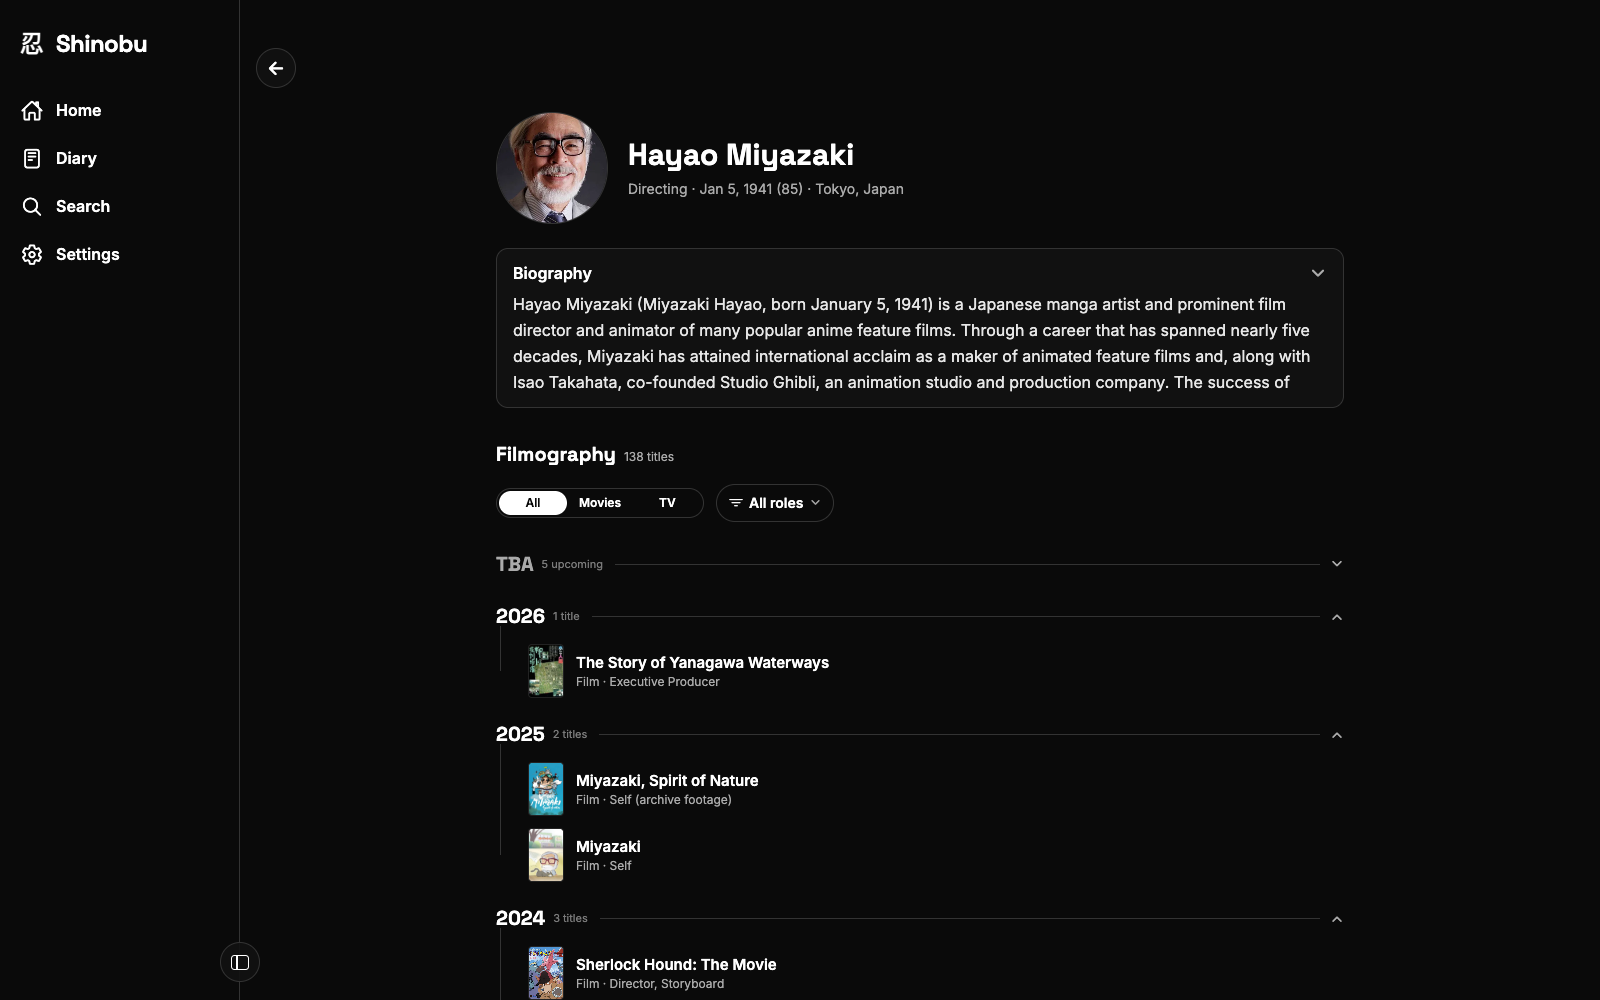
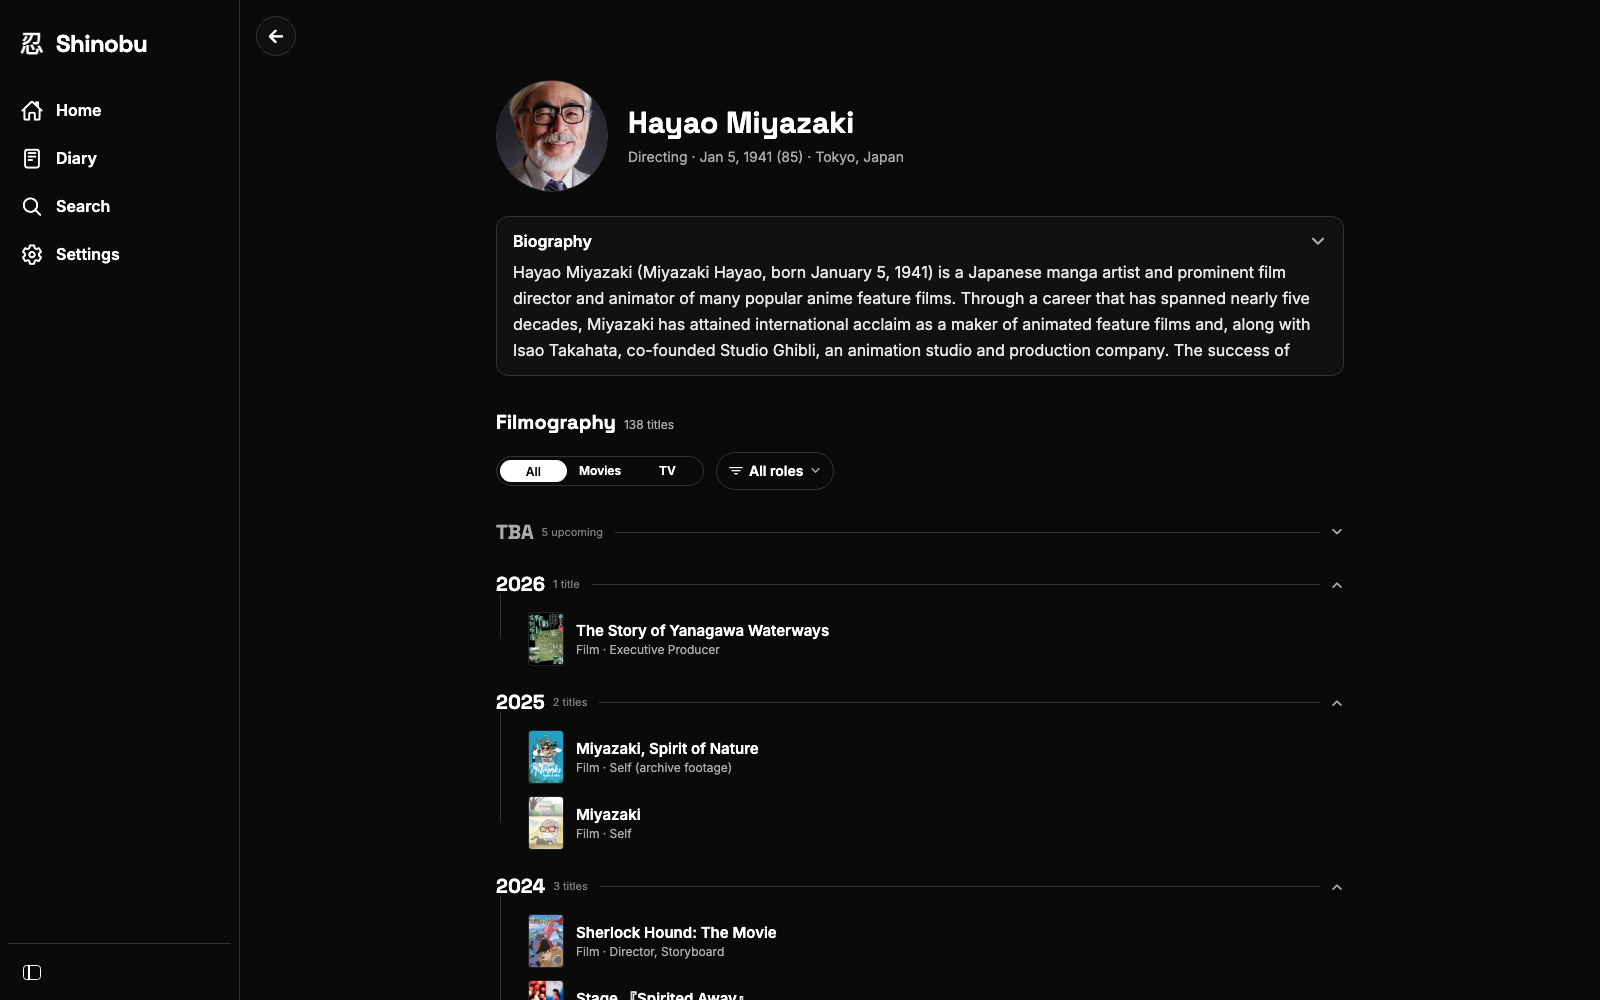
fix(web): move sidebar toggle into footer (#161)
* fix(web): move sidebar toggle into footer

* feat(web): morph sidebar footer icon on toggle

Changed region(s): [[0.3125, 0.062, 0.8125, 1.0], [0.4688, 0.465, 0.5, 0.527], [0.1562, 0.031, 0.1875, 0.062]]

diff --git a/src/components/app-shell/index.web.tsx b/src/components/app-shell/index.web.tsx
@@ -5,7 +5,6 @@ import { useEffect } from 'react';
 import { Text, View } from 'react-native';
 
 import { PresstableOpacity } from '@/components/presstable';
-import { RoundIconButton } from '@/components/round-icon-button';
 import { cn } from '@/lib/cn';
 import { emitSearchFocusRequest } from '@/features/search/focus-signal';
 import { usePushRoute } from '@/lib/navigation';
@@ -15,24 +14,10 @@ import {
   useSidebarCollapsed,
 } from '@/state/prefs/sidebar';
 
-/**
- * Sidebar widths (px). Their classes (`md:w-60` / `md:w-16`) are the values the
- * browser actually paints — these mirror them for the toggle's `left`.
- */
-const SIDEBAR_WIDTH = 240;
 const RAIL_WIDTH = 64;
 /** Fixed icon column so icons never shift between expanded/collapsed — only the
  *  labels reveal and the width slides. `RAIL_WIDTH` minus the `px-2` gutters. */
 const ICON_COL = RAIL_WIDTH - 16;
-/** Diameter of `RoundIconButton` (w-10). */
-const TOGGLE_SIZE = 40;
-
-const EASE = 'cubic-bezier(0.4, 0, 0.2, 1)';
-const leftTransition = {
-  transitionDuration: '220ms',
-  transitionProperty: 'left',
-  transitionTimingFunction: EASE,
-} as const;
 const opacityTransition = {
   transitionDuration: '160ms',
   transitionProperty: 'opacity',
@@ -112,10 +97,10 @@ function RevealLabel({
 }
 
 /**
- * The lucide/shadcn "panel-left" glyph, composed from Views (no SVG/icon-font
- * dependency): a rounded rect with a vertical divider a third of the way in.
+ * The sidebar control uses opposite divider positions to show which edge the
+ * panel will move toward when pressed.
  */
-function PanelLeftIcon({ color }: { color: string }) {
+function PanelIcon({ color, collapsed }: { color: string; collapsed: boolean }) {
   return (
     <View
       style={{
@@ -127,12 +112,14 @@ function PanelLeftIcon({ color }: { color: string }) {
       }}
     >
       <View
+        className="transition-transform duration-200 ease-in-out motion-reduce:transition-none"
         style={{
           backgroundColor: color,
           bottom: 0,
           left: 4,
           position: 'absolute',
           top: 0,
+          transform: [{ translateX: collapsed ? 6 : 0 }],
           width: 1.75,
         }}
       />
@@ -141,20 +128,19 @@ function PanelLeftIcon({ color }: { color: string }) {
 }
 
 /**
- * The collapse toggle floating at the bottom of the sidebar's right edge. Its
- * `left` slides in sync with the sidebar width.
+ * The collapse control sits in the sidebar footer in both states.
  */
 function SidebarToggle({ collapsed }: { collapsed: boolean }) {
-  const edge = collapsed ? RAIL_WIDTH : SIDEBAR_WIDTH;
-
   return (
-    <RoundIconButton
-      className="hidden md:flex absolute z-30"
-      icon={<PanelLeftIcon color={COLOR.foreground} />}
-      label={collapsed ? 'Expand sidebar' : 'Collapse sidebar'}
+    <PresstableOpacity
+      accessibilityLabel={collapsed ? 'Expand sidebar' : 'Collapse sidebar'}
+      accessibilityRole="button"
+      className="h-14 items-center justify-center"
       onPress={toggleSidebarCollapsed}
-      style={{ bottom: 18, left: edge - TOGGLE_SIZE / 2, ...leftTransition }}
-    />
+      style={{ width: ICON_COL }}
+    >
+      <PanelIcon color={COLOR.foreground} collapsed={collapsed} />
+    </PresstableOpacity>
   );
 }
 
@@ -203,10 +189,10 @@ function SidebarItem({
  * bar only after hydration.
  *
  * Collapse behavior is adapted from shadcn's `collapsible="icon"` sidebar: the
- * floating edge toggle (and ⌘/Ctrl+B) switches between the full rail and an
- * icon-only rail, persisted via `state/prefs/sidebar`. The width, labels, and
- * toggle animate together (CSS transitions; web-only file). The toggle and the
- * pref only exist above `md` — the bottom bar has one shape.
+ * footer toggle (and ⌘/Ctrl+B) switches between the full rail and an icon-only
+ * rail, persisted via `state/prefs/sidebar`. The width and labels animate
+ * together (CSS transitions; web-only file). The toggle and the pref only exist
+ * above `md` — the bottom bar has one shape.
  */
 export function AppShell({ children }: { children: ReactNode }) {
   const pathname = usePathname();
@@ -254,10 +240,10 @@ export function AppShell({ children }: { children: ReactNode }) {
     <View className="flex-1 flex-col-reverse md:flex-row">
       <View
         className={cn(
-          'border-t border-border bg-background overflow-hidden px-2',
+          'border-t border-border bg-background overflow-hidden md:px-2',
           // oxlint-disable-next-line shadcn/no-arbitrary-values -- the home indicator's inset has no scale value
-          'pb-[calc(env(safe-area-inset-bottom,0px)+0.5rem)] pt-2',
-          'md:h-full md:w-60 md:border-t-0 md:border-r md:pt-6 md:pb-0',
+          'pb-[calc(env(safe-area-inset-bottom,0px)+0.75rem)] pt-3',
+          'md:h-full md:w-60 md:border-t-0 md:border-r md:pt-6 md:pb-0 md:flex-col',
           // The bar is stretched, not `w-full`: `auto` can't interpolate, so
           // crossing `md` snaps. From `100%` it slid down to 240px, squeezing
           // the page to ~0px wide and latching Legend List's width
@@ -284,7 +270,36 @@ export function AppShell({ children }: { children: ReactNode }) {
             Shinobu
           </RevealLabel>
         </PresstableOpacity>
-        <View className="flex-row justify-around md:flex-col md:gap-1">
+        <View className="flex-row md:hidden">
+          {NAV_ITEMS.map((item) => {
+            const active = isActive(pathname, item.href);
+            return (
+              <PresstableOpacity
+                accessibilityLabel={item.label}
+                accessibilityRole="button"
+                className="flex-1 items-center justify-center"
+                key={item.href}
+                onPress={() => {
+                  if (!active) pushRoute(item.href);
+                }}
+              >
+                <View
+                  className={cn(
+                    'h-12 w-12 items-center justify-center rounded-full',
+                    active && 'bg-accent-tonal',
+                  )}
+                >
+                  <Ionicons
+                    color={active ? COLOR.accentOnTonal : COLOR.foreground}
+                    name={item.icon}
+                    size={23}
+                  />
+                </View>
+              </PresstableOpacity>
+            );
+          })}
+        </View>
+        <View className="hidden md:flex md:flex-col md:gap-1">
           {NAV_ITEMS.map((item) => {
             const active = isActive(pathname, item.href);
             return (
@@ -303,10 +318,11 @@ export function AppShell({ children }: { children: ReactNode }) {
             );
           })}
         </View>
+        <View className="hidden md:flex mt-auto border-t border-border">
+          <SidebarToggle collapsed={collapsed} />
+        </View>
       </View>
       <View className="flex-1">{children}</View>
-      {/* Last child so it paints above the routed content it overlaps. */}
-      <SidebarToggle collapsed={collapsed} />
     </View>
   );
 }

diff --git a/README.md b/README.md
@@ -7,8 +7,13 @@
 <p align="center">One app for all your media trackers. Log a movie, show, anime, or manga once, and Shinobu writes it to every tracker you've connected.</p>
 
 <p align="center">
-  <img src="./docs/images/screenshot-home.png" alt="Shinobu home with the &quot;One log. Every tracker.&quot; hero, floating provider tiles, and the web sidebar" />
+  <img src="./docs/images/screenshot-home.png" alt="Shinobu home with the &quot;One log. Every tracker.&quot; hero and expanded web sidebar with its footer control" />
 </p>
+
+<details>
+  <summary>See the collapsed web sidebar</summary>
+  <img src="./docs/images/screenshot-home-collapsed.png" alt="Shinobu home with the icon-only sidebar and its footer control" />
+</details>
 
 <p align="center">
   <img src="./docs/images/screenshot-details.png" width="49%" alt="An anime's detail screen with its backdrop, poster, native title, overview card, progress, seasons, and related entries" />
